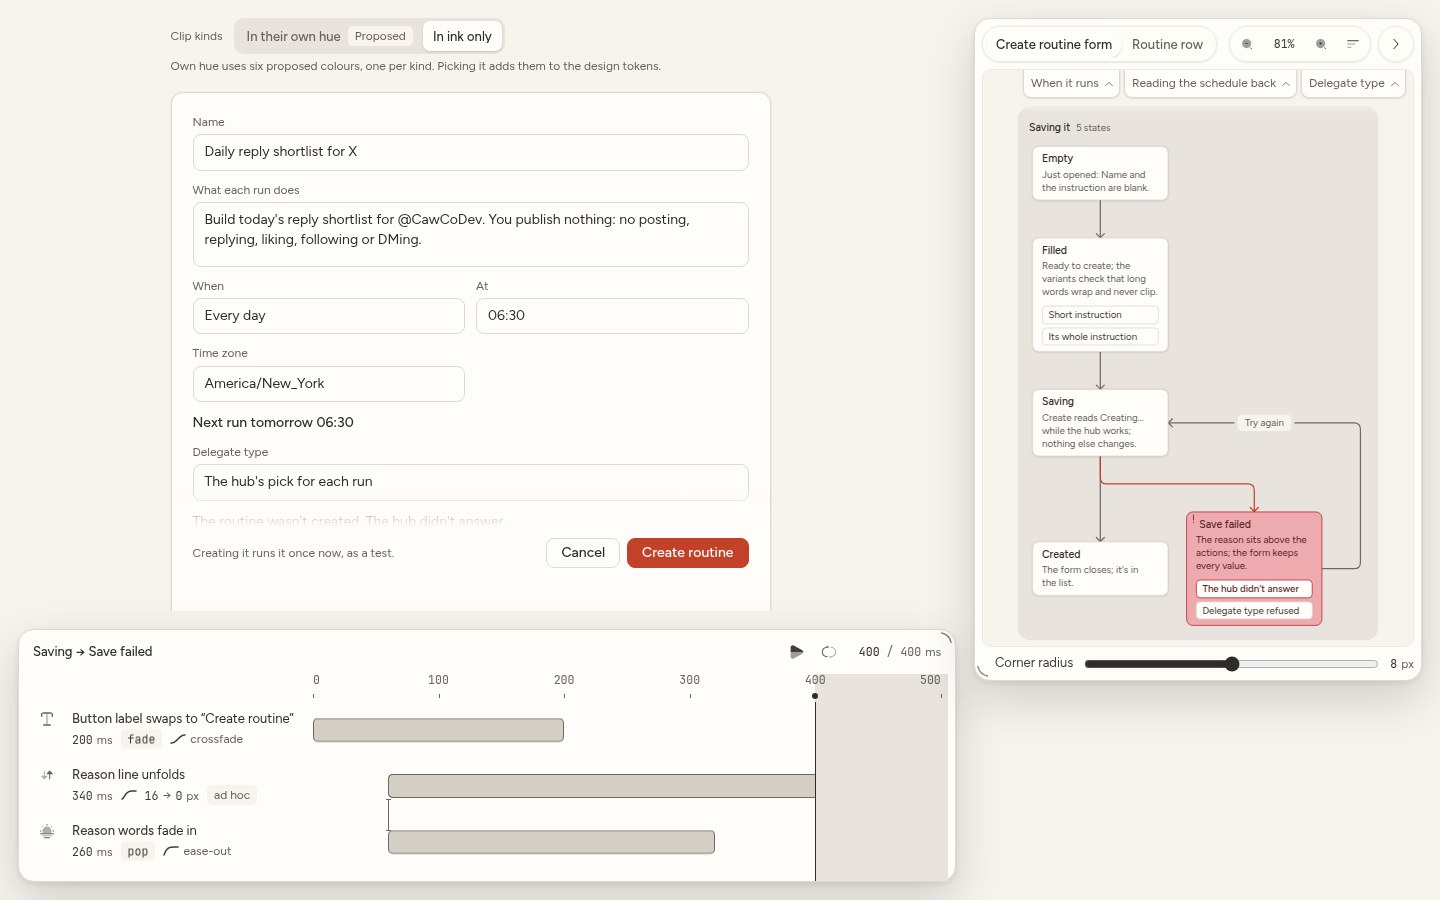
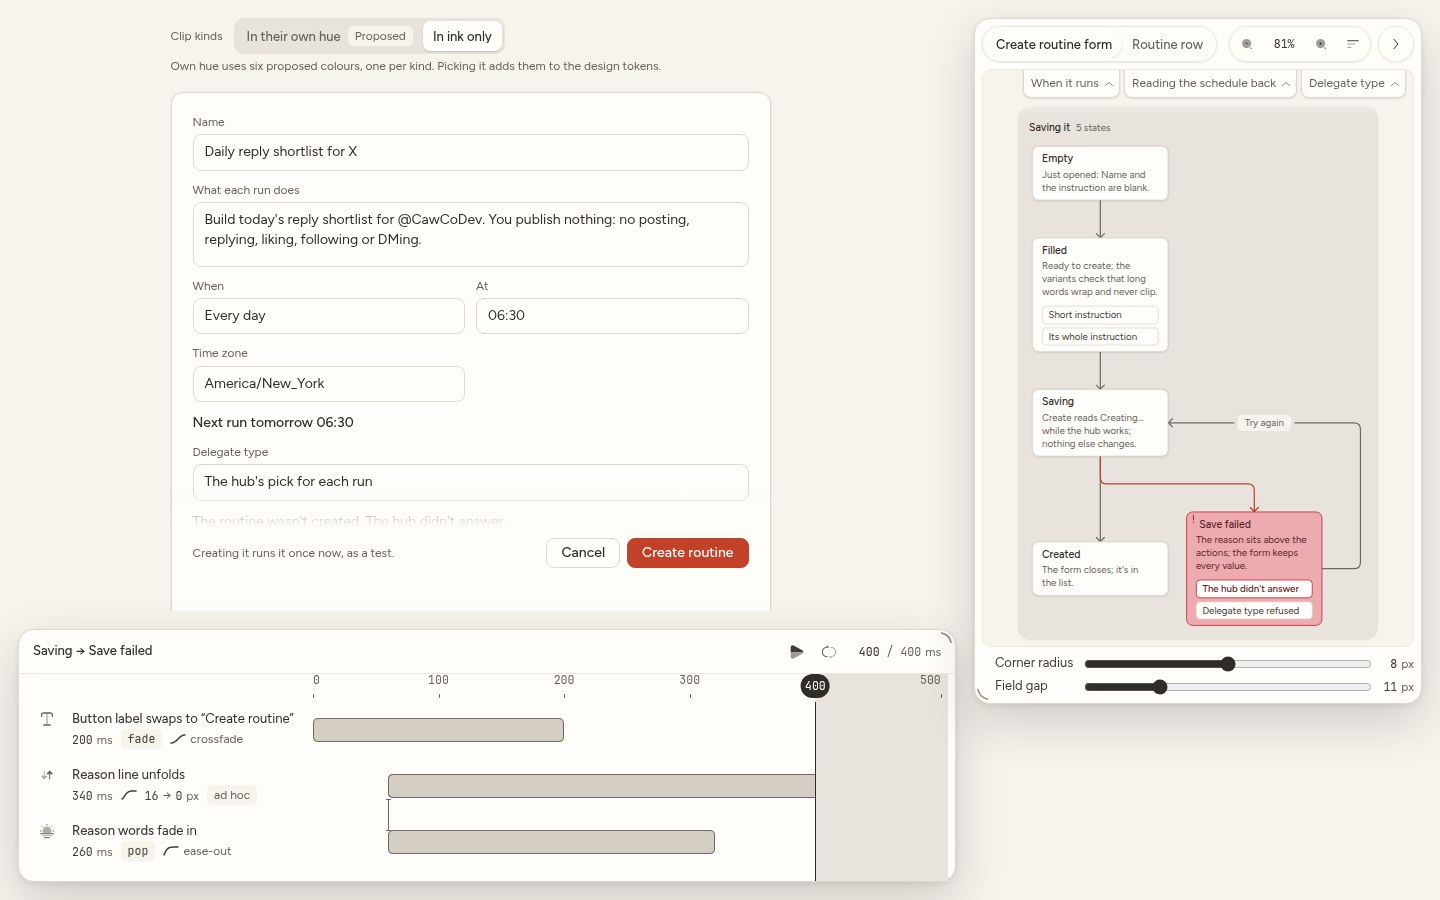
design-graph r29: pins 7, 11, 13 and 14 built where the old page only said them
- #7: the form's dials are two sliders, Corner radius and Field gap (the agent decides what it puts up).
- #11: the dock's head stays one row at every width: a dock under 440px leaves the time to the playhead's
  pill and the count to the rows' changed figures.
- #13: the playhead's head is an ink pill on the ruler saying the time (coral is the action).
- #14: a 1px hairline the dock's whole width under its head.
- #18 needed nothing: the two arcs are the only resize marks.
check.mjs reads each of the five on Chromium and WebKit at 1440, 768 and 390.

Changed region(s): [[0.6562, 0.7467, 1.0, 0.8089], [0.5312, 0.7467, 0.5938, 0.7778], [0.0312, 0.7156, 0.0938, 0.7467]]

diff --git a/.mockups/design-graph/page.html b/.mockups/design-graph/page.html
@@ -517,6 +517,37 @@
       transparent,
       oklch(from var(--neutral-12) l c h / 0.07)
     );
+    /* A state machine's slab on the design graph: one step down from the well by day; at night, where the well is already the deepest step, the recess (Projects spec §5.10, "The design graph"; mockup round 29). */
+    --c-graph-slab: light-dark(
+      var(--surface-recess-deep),
+      var(--surface-recess)
+    );
+    /* An edge's ink on the design graph, 3:1 on its slab: the contrast edge by day, the row outline at night (Projects spec §5.10, "The design graph"; mockup round 29). */
+    --c-graph-edge-ink: light-dark(
+      var(--border-contrast),
+      var(--border-row-outline)
+    );
+    /* The move into the kept state, drawn stronger: the strong coral ink by day (3:1 on the slab), coral itself at night (Projects spec §5.10, "The design graph"; mockup round 29). */
+    --c-graph-edge-chosen: light-dark(
+      var(--brand-ink-strong),
+      var(--brand-solid)
+    );
+    /* An edge label's badge on the design graph: one step off the slab either way (Projects spec §5.10, "The design graph"; mockup round 29). */
+    --c-graph-label-bg: light-dark(
+      var(--surface-recess),
+      var(--surface-recess-deep)
+    );
+    /* A chosen clip row's ground in the dock: the house wash at 40% by day, so a choice reads as chosen and not as a failure's red; the wash itself at night (Projects spec §5.10, "The design graph"; mockup round 29). */
+    --c-chosen-wash: light-dark(
+      color-mix(in oklab, var(--brand-wash) 40%, transparent),
+      var(--brand-wash)
+    );
+    /* A clip that brings its element in: its glyph and its bar's hue (pin 27, "color things differently") (Projects spec §5.10, "The design graph"; mockup round 29). */
+    --c-clip-enter: var(--data-ok);
+    /* A clip that changes its element where it stands: its glyph and its bar's hue (Projects spec §5.10, "The design graph"; mockup round 29). */
+    --c-clip-change: var(--status-live-glyph);
+    /* A clip that takes its element away: its glyph and its bar's hue (Projects spec §5.10, "The design graph"; mockup round 29). */
+    --c-clip-exit: var(--data-bad);
     --shadow-xs: 0 1px 2px var(--shadow-tint);
     --shadow-tile:
       0 1px 2px
@@ -751,8 +782,6 @@
     --c-pin-card-w: 280px;
     /* A comment's composer and its thread beside its pin over the page (DESIGN.md, Placing a comment; A thread beside its pin; the owner's pick "Beside the comment", comment-card-sizing): one width for both, so a card never changes width as it goes from composer to thread. Two fifths of the well (the pin room is the size container), held between 280px and 480px: 415px at a 1357px pane with the 320px rail open, about 50 characters a line (Google Docs: 35 to 50; Radix Themes maxWidth 480). Web only. */
     --c-pin-card-reading-w: clamp(280px, 40cqi, 480px);
-    /* The room from where a thread beside its pin stands to the well's foot under which it stops hanging from the pill and takes the well's height, its foot on the well's (DESIGN.md, A thread beside its pin). Web only. */
-    --c-pin-card-reading-room: 320px;
     /* The overlay's line round a chosen target and the page's root in Comment mode: the content's own edge weight, never the focus ring's (DESIGN.md, The One Target Rule). */
     --c-target-stroke: 1px;
     /* How far outside a bare chosen target (no border and no background of its own: a bare text container, a label-and-field group) the overlay's line stands, so it never touches the glyphs; its corners grow with it. A target that draws its own box takes the line on its border box, at 0 (DESIGN.md, The One Target Rule). */
@@ -767,10 +796,22 @@
     --c-canvas-skeleton-w: 240px;
     /* A component canvas's frame on its way: the skeleton's height, two rows of a card's content, so the frames that land under it move the layout least (DESIGN.md Artifact panel, canvas and ink; Skeleton). */
     --c-canvas-skeleton-h: 96px;
-    /* An edge's stroke on a graph canvas: the decision graph's and a component canvas's map, from one card to the next (DESIGN.md Artifact panel, canvas and ink). */
+    /* An edge's stroke on a graph canvas: a component canvas's map, from one card to the next (DESIGN.md Artifact panel, canvas and ink). */
     --c-graph-edge: 1.5px;
+    /* The design graph's chosen edge, the move into the kept state: twice an edge's stroke, so the path reads from the rest at a glance (Projects spec §5.10, "The design graph"; mockup round 29). */
+    --c-graph-edge-lit: calc(2 * var(--c-graph-edge));
     /* A component on a canvas's map: its name, file and counts over its frames at 16:10, live when chosen; the widest that keeps five across a desk pane at the map's fit (DESIGN.md Artifact panel, canvas and ink). */
     --c-map-node-w: 264px;
+    /* The design graph's panel beside a component under review on a desk (Projects spec §5.10, "The design graph"; mockup round 28): two 168px states side by side in a machine's region with its padding, and the panel's own. A pane narrower than twice it holds the graph as a drawer at its foot instead. */
+    --c-graph-panel-w: 448px;
+    /* A state on the design graph: its name over its variations' chips, two to a region's row in the 448px panel (mockup round 28). */
+    --c-graph-node-w: 168px;
+    /* The narrowest a state on the design graph is drawn, in a phone's single column (mockup round 22's floor). */
+    --c-graph-node-min-w: 120px;
+    /* A machine's header band on the design graph: its name in the label role across the top of its region (mockup round 27, pin 30). */
+    --c-graph-region-band-h: 24px;
+    /* The design graph's drawer at its first stop on a phone or a narrow pane: the graph in view, the component above it (mockup round 22). */
+    --c-graph-drawer-stop: 45dvh;
     /* The iOS app's Comments panel (until its parity with the web's Comments rail, c-comments-w), floating over the well's top-right: its share of the well's width, held between c-pin-list-min and c-pin-list-max. At 0.3 a desk well past about 930px gives the rows more than the floor's 225px text column, so a longer comment wraps to fewer lines. */
     --c-pin-list-share: 0.3;
     /* The Comments panel at its narrowest: a row's text column of 225px beside its disc, where a six-word comment in the body role stands on one line and a 48-word one wraps to its four-line cut. */
@@ -1156,14 +1197,6 @@
     --c-block-refused-basis: 18rem;
     /* The composer canvas's top grab strip. */
     --c-canvas-grab-w: 160px;
-    /* A decision page head's title group: how narrow it goes beside ‹ Decisions before it wraps. */
-    --c-decision-head-what: 14rem;
-    /* The decisions graph's least height. */
-    --c-decision-graph-min-h: 24rem;
-    /* A decision card's width; the hub's graph layout assumes the same box (DecisionGraph CARD). */
-    --c-decision-node-w: 148px;
-    /* A decision card's least height (DecisionGraph CARD.height). */
-    --c-decision-node-h: 56px;
     /* A decision page's one centred column (decisions/host): two option columns side by side, each a 60ch line at the label size, and the gap between. */
     --c-decision-page-w: 920px;
     /* The length of a decision page's count bar in its sticky foot, beside "1 of 5 picked". */
@@ -1326,6 +1359,8 @@
     --c-usage-strip-row: calc(
       var(--icon-md) + var(--space-1) + var(--c-usage-cap-lh)
     );
+    /* The clip over the usage strip's row, hiding a wrapped second row: the row and a space-1 of room above it for the time's glyphs, which reach past their 16px line. */
+    --c-usage-strip-clip: calc(var(--c-usage-strip-row) + var(--space-1));
     /* The usage strip's hit height on the home card. */
     --c-usage-strip-home-h: 56px;
     /* The week share's column: as wide as "100%" in the figure face. */
@@ -1470,6 +1505,34 @@
     --c-skeleton-card-h: 54px;
     /* The flex basis of a marketplace plugin offer's words before its Install button wraps under them (the skills page). */
     --c-offer-text-basis: 240px;
+    /* An edge's open chevron on the design graph: two legs this long at a right angle, meeting at the tip, in the edge's stroke (Projects spec §5.10, "The design graph"; mockup round 29). */
+    --c-edge-head-leg: 7px;
+    /* The resize handle's arc stands this far in from the panel's edge: 0.122 of the panel's radius, as iPadOS 26's corner handle stands (Projects spec §5.10, "The design graph"; mockup round 29). */
+    --c-handle-arc-gap: calc(var(--radius-panel) * 0.122);
+    /* The resize handle's stroke at rest: the house grip's (Projects spec §5.10, "The design graph"; mockup round 29). */
+    --c-handle-stroke: var(--c-corner-grip-stroke);
+    /* The resize handle's stroke reached or held: twice the grip's, so its run reads against the panel's 1px edge beside it (Projects spec §5.10, "The design graph"; mockup round 29). */
+    --c-handle-stroke-held: calc(2 * var(--c-corner-grip-stroke));
+    /* How far past the pointer the resize handle's leg reaches along the edge it points at, and its run's taper (Projects spec §5.10, "The design graph"; mockup round 29). */
+    --c-handle-reach: 24px;
+    /* A resizable edge's hit band on the design graph's panel and dock, taking no room; 44px under a finger (c-side-divider-hit) (Projects spec §5.10, "The design graph"; mockup round 29). */
+    --c-handle-band: 8px;
+    /* The resize handle's corner square: the one separator a key reaches (Projects spec §5.10, "The design graph"; mockup round 29). */
+    --c-handle-corner: 24px;
+    /* The tab the design graph's panel folds into at the pane's trailing edge, the graph's glyph in it (Projects spec §5.10, "The design graph"; mockup round 29). */
+    --c-tucked-tab: 36px;
+    /* A clip's curve drawn large in its controls: its plot and a bézier's two handles (Projects spec §5.10, "The design graph"; mockup round 29). */
+    --c-curve-editor-w: 120px;
+    /* The curve editor's height: its plot, with room above and below for a curve that overshoots (Projects spec §5.10, "The design graph"; mockup round 29). */
+    --c-curve-editor-h: 72px;
+    /* How near a duration token a drag or a slider lands before it snaps to it (the owner's pick "snap") (Projects spec §5.10, "The design graph"; mockup round 29). */
+    --c-detent-snap: 6px;
+    /* The dock's name column: a clip's element, its property and its facts beside its lane; a dock narrower than twice it stacks each row (Projects spec §5.10, "The design graph"; mockup round 29). */
+    --c-dock-name-w: 280px;
+    /* A clip's bar's end zones: a press there drags that end, elsewhere the bar whole (Projects spec §5.10, "The design graph"; mockup round 29). */
+    --c-bar-handle-zone: 8px;
+    /* What the dock's ceiling leaves the page under review, so its head and first field stay readable (Projects spec §5.10, "The design graph"; mockup round 29). */
+    --c-page-h-floor: 240px;
     /* The hub band's slot under the bar: over the page column it opens above, its shadow on the page. */
     --layer-band: 20;
     /* The phone's edge-pull strip (EdgePull): over the page at the screen's edge, so a press there is the pull's; under a canvas stage. */
@@ -1938,7 +2001,7 @@ button { font: inherit; color: inherit; }
 .stage-wrap[hidden] { display: none; }
 .frame { padding: var(--space-6); border: 1px solid var(--border-control); border-radius: calc(var(--mock-radius, 8px) + var(--space-1)); background: var(--surface-raised); box-shadow: var(--shadow-tile); }
 .frame label { display: block; margin: 0 0 var(--space-1); font: var(--type-meta); color: var(--ink-muted); }
-.field { margin-block-end: var(--space-3); min-inline-size: 0; }
+.field { margin-block-end: var(--mock-field-gap, var(--space-3)); min-inline-size: 0; }
 .input { min-block-size: var(--c-input-h); padding: var(--space-2) var(--space-3); border: 1px solid var(--border-control); border-radius: var(--mock-radius, 8px); background: var(--surface-raised); overflow-wrap: anywhere; }
 .input.tall { min-block-size: calc(2 * var(--c-input-h) - var(--space-2)); }
 .two { display: grid; grid-template-columns: repeat(2, minmax(0, 1fr)); gap: var(--space-3); }
@@ -2274,7 +2337,9 @@ html[data-layout="desk"] .panel[data-open="false"] .panel-shell:active .tab-glyp
 .dock-body { display: contents; }
 /* Its head bar (44px): the move, play, loop and the time; the edits at its end. Dragged to its floor, the dock
    is this bar alone: a timeline folded to its transport. */
-.dock-head { flex: none; display: flex; align-items: center; gap: var(--space-2); min-block-size: var(--c-row-h); }
+/* One row, a hairline the dock's whole width under it (pin 14): the head runs out over the dock's inline padding
+   and takes it back inside. */
+.dock-head { flex: none; display: flex; align-items: center; gap: var(--space-2); min-block-size: var(--c-row-h); margin-inline: calc(-1 * var(--space-4)); padding-inline: var(--space-4); border-block-end: 1px solid var(--border-hairline); }
 .dock-title { flex: 1 1 auto; min-inline-size: 0; margin: 0; font: var(--type-label); color: var(--ink-strong); overflow: hidden; text-overflow: ellipsis; white-space: nowrap; }
 .transport { display: flex; align-items: center; gap: var(--space-1); flex: none; }
 .edits { display: flex; align-items: center; gap: var(--space-2); flex: none; }
@@ -2405,12 +2470,13 @@ html[data-kinds="ink"] .tail { --tail-fill: var(--surface-fill-strong); --tail-e
 .tie::before, .tie::after { content: ""; position: absolute; inset-inline-start: calc((1px - var(--space-1) - 1px) / 2); block-size: 1px; inline-size: calc(var(--space-1) + 1px); background: var(--border-contrast); }
 .tie::before { inset-block-start: 0; }
 .tie::after { inset-block-end: 0; }
-/* The playhead: 1px of the strong ink down through the rows from the ruler's tick line, a dot on that line.
-   Nothing on the ruler is red: coral is the action, crimson a failure. */
+/* The playhead: 1px of the strong ink down through the rows from the ruler's tick line, its head a pill on the
+   ruler saying the moment the page stands (pin 13), held inside the ruler at its ends. Ink, as a tooltip is:
+   nothing on the ruler is red, coral is the action and crimson a failure. */
 .playhead { position: absolute; inset-block: 0; inline-size: 0; z-index: 4; pointer-events: none; }
 /* The playhead's dot stands on the ruler's tick line, drawn by the ruler (over every row, an open row's
    controls included); its line runs down under the rows' own open controls. */
-.ruler::after { content: ""; position: absolute; z-index: 1; inset-block-start: calc(100% - var(--space-1) / 2 - var(--c-block-drop-dot) / 2); inset-inline-start: calc(var(--ph-x, 0px) - var(--c-block-drop-dot) / 2); inline-size: var(--c-block-drop-dot); block-size: var(--c-block-drop-dot); border-radius: var(--radius-pill); background: var(--ink-strong); pointer-events: none; }
+.ruler::after { content: attr(data-t); position: absolute; z-index: 1; inset-block: 0; inset-inline-start: clamp(var(--space-4), var(--ph-x, 0px), calc(100% - var(--space-4))); translate: -50% 0; display: grid; place-items: center; padding-inline: var(--space-1); border-radius: var(--radius-pill); background: var(--ink-solid); color: var(--on-ink); font: var(--type-code); font-size-adjust: cap-height var(--mono-figure-cap); font-variant-numeric: tabular-nums; white-space: nowrap; pointer-events: none; }
 .playhead::after { content: ""; position: absolute; inset-block: var(--ph-y, 0px) 0; inset-inline-start: -0.5px; inline-size: 1px; background: var(--ink-strong); }
 .snap { position: absolute; inset-block: 0; inline-size: 1px; z-index: 2; background: var(--border-contrast); pointer-events: none; }
 .marquee { position: absolute; z-index: 2; background: var(--selection); border: 1px solid var(--focus-ring); pointer-events: none; }
@@ -2582,6 +2648,9 @@ html:is([data-input="touch"], [data-input="touch-hover"]) .fld input { font-size
 /* A row narrower than a name column and a usable lane stacks: its name and facts, then the lane across the
    dock's whole width; lines that run down through the rows at a desk are drawn inside each lane. */
 @container dock (width < 440px) {
+  /* The head stays one row (pin 11): the time is the playhead's pill's to say, the count the rows' changed
+     figures'. */
+  .dock-head :is(.readout, .edits-count) { display: none; }
   .tl { --rows: stacked; }
   .tl-row { grid-template-columns: minmax(0, 1fr); }
   .ruler-row .ruler { grid-column: 1; }
@@ -7370,6 +7439,7 @@ function updateTime() {
   const rb = $("ruler").getBoundingClientRect(), tb = $("tl").getBoundingClientRect();
   $("playhead").style.setProperty("--ph-y", rb.bottom - tlTop() - px("--space-1") / 2 + "px");
   $("readout").innerHTML = '<b class="fig">' + Math.round(t) + '</b> / <span class="fig">' + Math.round(len) + '<span class="unit">ms</span></span>';
+  $("ruler").dataset.t = Math.round(t);
   $("play").toggleAttribute("data-playing", !!playing);
   $("play").setAttribute("aria-label", playing ? "Pause" : "Play");
   updateDash();
@@ -8103,7 +8173,11 @@ addEventListener("pointerdown", hideTip, true);
 
 // ---- Dials: what the agent put up for tuning on this component ----
 const dials = {
-  form: [{ name: "Corner radius", min: 0, max: 16, step: 1, unit: "px", value: 8, apply: (v) => rootEl.style.setProperty("--mock-radius", v + "px") }],
+  // The agent decides what it puts up (pin 7): here two sliders, the form's corners and the room between its fields.
+  form: [
+    { name: "Corner radius", min: 0, max: 16, step: 1, unit: "px", value: 8, apply: (v) => rootEl.style.setProperty("--mock-radius", v + "px") },
+    { name: "Field gap", min: 4, max: 32, step: 1, unit: "px", value: 11, apply: (v) => rootEl.style.setProperty("--mock-field-gap", v + "px") },
+  ],
   row: [{ name: "Row padding", min: 6, max: 20, step: 1, unit: "px", value: 12, apply: (v) => rootEl.style.setProperty("--mock-row-pad", v + "px") }],
 };
 function drawDials(cid = tab) {

diff --git a/.mockups/design-graph/style.css b/.mockups/design-graph/style.css
@@ -143,7 +143,7 @@ button { font: inherit; color: inherit; }
 .stage-wrap[hidden] { display: none; }
 .frame { padding: var(--space-6); border: 1px solid var(--border-control); border-radius: calc(var(--mock-radius, 8px) + var(--space-1)); background: var(--surface-raised); box-shadow: var(--shadow-tile); }
 .frame label { display: block; margin: 0 0 var(--space-1); font: var(--type-meta); color: var(--ink-muted); }
-.field { margin-block-end: var(--space-3); min-inline-size: 0; }
+.field { margin-block-end: var(--mock-field-gap, var(--space-3)); min-inline-size: 0; }
 .input { min-block-size: var(--c-input-h); padding: var(--space-2) var(--space-3); border: 1px solid var(--border-control); border-radius: var(--mock-radius, 8px); background: var(--surface-raised); overflow-wrap: anywhere; }
 .input.tall { min-block-size: calc(2 * var(--c-input-h) - var(--space-2)); }
 .two { display: grid; grid-template-columns: repeat(2, minmax(0, 1fr)); gap: var(--space-3); }
@@ -479,7 +479,9 @@ html[data-layout="desk"] .panel[data-open="false"] .panel-shell:active .tab-glyp
 .dock-body { display: contents; }
 /* Its head bar (44px): the move, play, loop and the time; the edits at its end. Dragged to its floor, the dock
    is this bar alone: a timeline folded to its transport. */
-.dock-head { flex: none; display: flex; align-items: center; gap: var(--space-2); min-block-size: var(--c-row-h); }
+/* One row, a hairline the dock's whole width under it (pin 14): the head runs out over the dock's inline padding
+   and takes it back inside. */
+.dock-head { flex: none; display: flex; align-items: center; gap: var(--space-2); min-block-size: var(--c-row-h); margin-inline: calc(-1 * var(--space-4)); padding-inline: var(--space-4); border-block-end: 1px solid var(--border-hairline); }
 .dock-title { flex: 1 1 auto; min-inline-size: 0; margin: 0; font: var(--type-label); color: var(--ink-strong); overflow: hidden; text-overflow: ellipsis; white-space: nowrap; }
 .transport { display: flex; align-items: center; gap: var(--space-1); flex: none; }
 .edits { display: flex; align-items: center; gap: var(--space-2); flex: none; }
@@ -610,12 +612,13 @@ html[data-kinds="ink"] .tail { --tail-fill: var(--surface-fill-strong); --tail-e
 .tie::before, .tie::after { content: ""; position: absolute; inset-inline-start: calc((1px - var(--space-1) - 1px) / 2); block-size: 1px; inline-size: calc(var(--space-1) + 1px); background: var(--border-contrast); }
 .tie::before { inset-block-start: 0; }
 .tie::after { inset-block-end: 0; }
-/* The playhead: 1px of the strong ink down through the rows from the ruler's tick line, a dot on that line.
-   Nothing on the ruler is red: coral is the action, crimson a failure. */
+/* The playhead: 1px of the strong ink down through the rows from the ruler's tick line, its head a pill on the
+   ruler saying the moment the page stands (pin 13), held inside the ruler at its ends. Ink, as a tooltip is:
+   nothing on the ruler is red, coral is the action and crimson a failure. */
 .playhead { position: absolute; inset-block: 0; inline-size: 0; z-index: 4; pointer-events: none; }
 /* The playhead's dot stands on the ruler's tick line, drawn by the ruler (over every row, an open row's
    controls included); its line runs down under the rows' own open controls. */
-.ruler::after { content: ""; position: absolute; z-index: 1; inset-block-start: calc(100% - var(--space-1) / 2 - var(--c-block-drop-dot) / 2); inset-inline-start: calc(var(--ph-x, 0px) - var(--c-block-drop-dot) / 2); inline-size: var(--c-block-drop-dot); block-size: var(--c-block-drop-dot); border-radius: var(--radius-pill); background: var(--ink-strong); pointer-events: none; }
+.ruler::after { content: attr(data-t); position: absolute; z-index: 1; inset-block: 0; inset-inline-start: clamp(var(--space-4), var(--ph-x, 0px), calc(100% - var(--space-4))); translate: -50% 0; display: grid; place-items: center; padding-inline: var(--space-1); border-radius: var(--radius-pill); background: var(--ink-solid); color: var(--on-ink); font: var(--type-code); font-size-adjust: cap-height var(--mono-figure-cap); font-variant-numeric: tabular-nums; white-space: nowrap; pointer-events: none; }
 .playhead::after { content: ""; position: absolute; inset-block: var(--ph-y, 0px) 0; inset-inline-start: -0.5px; inline-size: 1px; background: var(--ink-strong); }
 .snap { position: absolute; inset-block: 0; inline-size: 1px; z-index: 2; background: var(--border-contrast); pointer-events: none; }
 .marquee { position: absolute; z-index: 2; background: var(--selection); border: 1px solid var(--focus-ring); pointer-events: none; }
@@ -787,6 +790,9 @@ html:is([data-input="touch"], [data-input="touch-hover"]) .fld input { font-size
 /* A row narrower than a name column and a usable lane stacks: its name and facts, then the lane across the
    dock's whole width; lines that run down through the rows at a desk are drawn inside each lane. */
 @container dock (width < 440px) {
+  /* The head stays one row (pin 11): the time is the playhead's pill's to say, the count the rows' changed
+     figures'. */
+  .dock-head :is(.readout, .edits-count) { display: none; }
   .tl { --rows: stacked; }
   .tl-row { grid-template-columns: minmax(0, 1fr); }
   .ruler-row .ruler { grid-column: 1; }

diff --git a/.mockups/design-graph/app.js b/.mockups/design-graph/app.js
@@ -1371,6 +1371,7 @@ function updateTime() {
   const rb = $("ruler").getBoundingClientRect(), tb = $("tl").getBoundingClientRect();
   $("playhead").style.setProperty("--ph-y", rb.bottom - tlTop() - px("--space-1") / 2 + "px");
   $("readout").innerHTML = '<b class="fig">' + Math.round(t) + '</b> / <span class="fig">' + Math.round(len) + '<span class="unit">ms</span></span>';
+  $("ruler").dataset.t = Math.round(t);
   $("play").toggleAttribute("data-playing", !!playing);
   $("play").setAttribute("aria-label", playing ? "Pause" : "Play");
   updateDash();
@@ -2104,7 +2105,11 @@ addEventListener("pointerdown", hideTip, true);
 
 // ---- Dials: what the agent put up for tuning on this component ----
 const dials = {
-  form: [{ name: "Corner radius", min: 0, max: 16, step: 1, unit: "px", value: 8, apply: (v) => rootEl.style.setProperty("--mock-radius", v + "px") }],
+  // The agent decides what it puts up (pin 7): here two sliders, the form's corners and the room between its fields.
+  form: [
+    { name: "Corner radius", min: 0, max: 16, step: 1, unit: "px", value: 8, apply: (v) => rootEl.style.setProperty("--mock-radius", v + "px") },
+    { name: "Field gap", min: 4, max: 32, step: 1, unit: "px", value: 11, apply: (v) => rootEl.style.setProperty("--mock-field-gap", v + "px") },
+  ],
   row: [{ name: "Row padding", min: 6, max: 20, step: 1, unit: "px", value: 12, apply: (v) => rootEl.style.setProperty("--mock-row-pad", v + "px") }],
 };
 function drawDials(cid = tab) {
